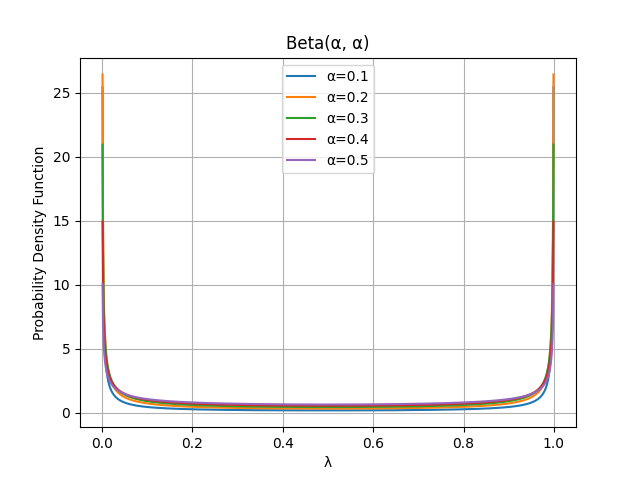
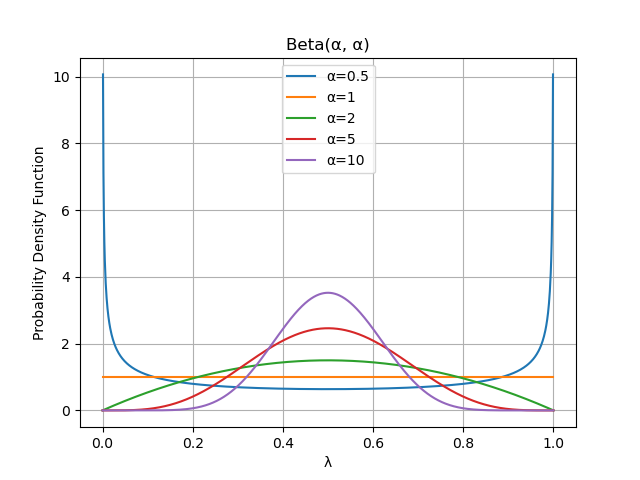
beta

diff --git a/beta_distribution.py b/beta_distribution.py
@@ -6,8 +6,8 @@ from scipy.stats import beta
 x = np.linspace(0, 1, 1000)
 
 # プロットするalphaのリスト
-alphas = [0.1, 0.2, 0.3, 0.4, 0.5]
-# alphas = [0.5, 1, 2, 5, 10]
+# alphas = [0.1, 0.2, 0.3, 0.4, 0.5]
+alphas = [0.5, 1, 2, 5, 10]
 
 plt.figure()
 for a in alphas:

diff --git a/print_acc.py b/print_acc.py
@@ -2,7 +2,7 @@ import pickle
 
 dic = {}
 
-pickle_file_path = f'./history/wide_resnet_28_10/Mixup/cifar100_400_0.pickle'
+pickle_file_path = f'./history/wide_resnet_28_10/Mixup(alpha=0.5)/cifar100_400_0.pickle'
 with open(pickle_file_path, 'rb') as f:
     dic = pickle.load(f)
 
